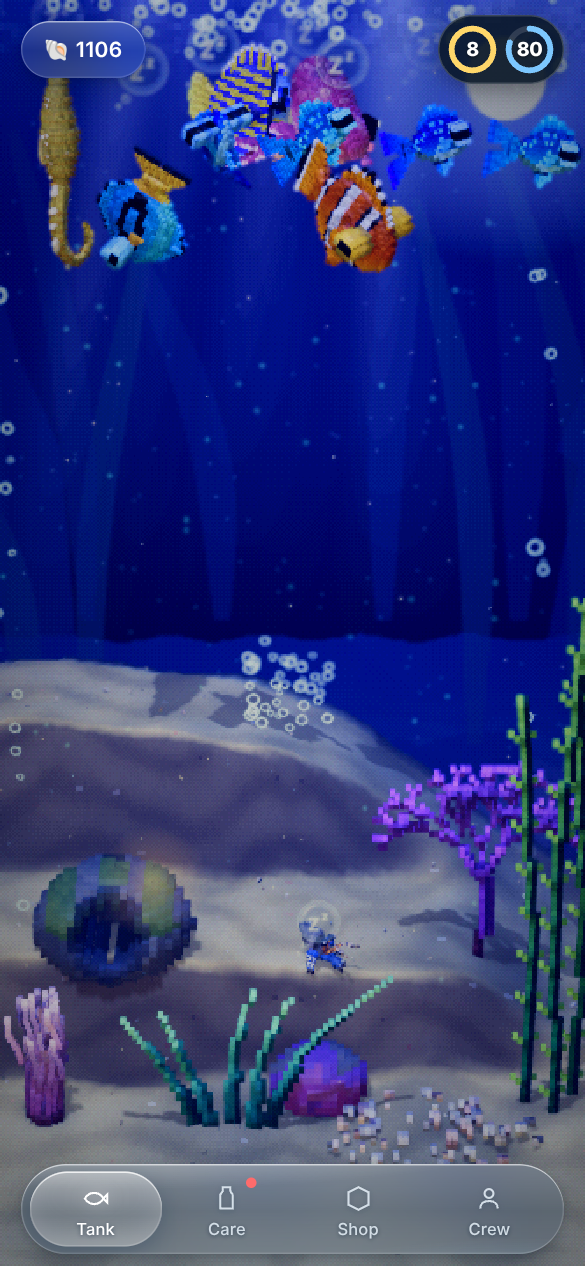
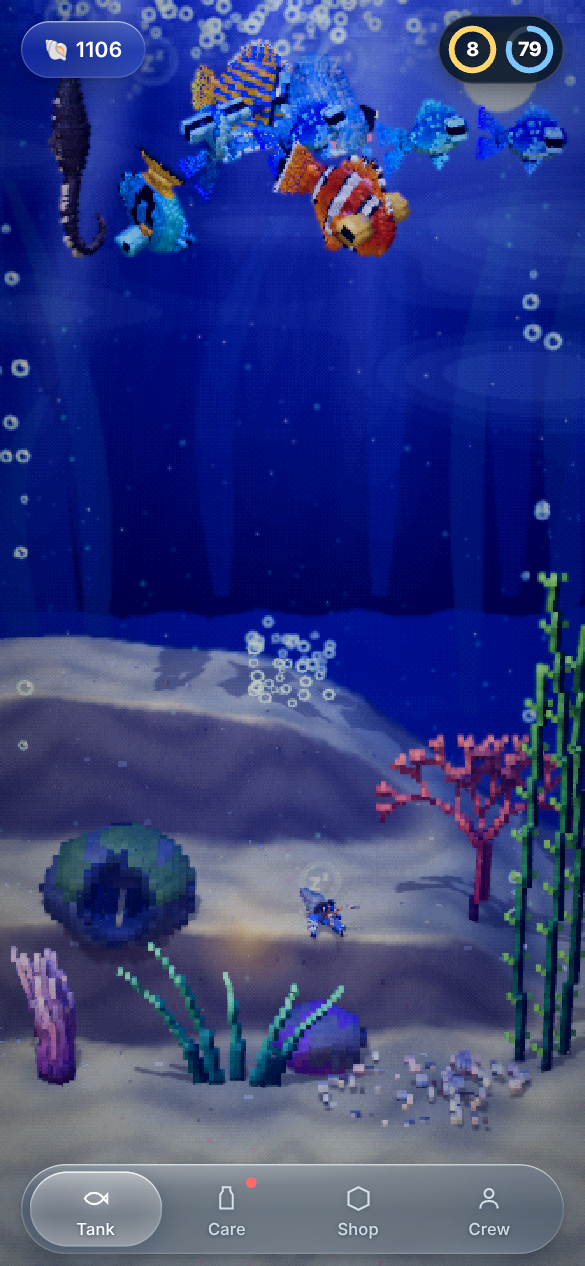
Visual pass: caustics on animals, translucent fins, haze, shadows, 3D thumbnails
- Caustic light now plays over every voxel animal and decoration, not only
  the sand: the shared voxel shader samples the same caustic texture in
  world space, strongest on upward faces and fading with depth, scaled by
  the time of day.
- Thin fins (dorsal, tail, pectoral) are translucent: an instanced per-voxel
  flag feeds an alpha-hashed 74% opacity, so fins read as membranes while
  the body stays solid. Eyes and glowing parts are never thinned.
- Soft shadow discs under swimming animals: a radial disc on the sand that
  grows and fades with the animal's height, hidden for seahorses, visitors,
  nursery fry, puppets and a hunting octopus; disposed with the animal.
- Two additive haze bands in the midwater, moving with the light.
- Bubbles carry a small glint highlight; shop and card thumbnails are
  rendered from every species' real 3D model (turtles keep their stroke
  pose); a faint glass streak in the grade pass.
- Service worker cache bumped to v321; after/before screenshots refreshed
  for all four times of day.

Claude-Session: https://claude.ai/code/session_01AcX8wdAS6t2Ysits5NhkSb

diff --git a/web/src/w3/fishmgr.js b/web/src/w3/fishmgr.js
@@ -117,10 +117,10 @@ export class Fishes {
       if (!f) { f = new Fish3D(SPECIES[x.species], x.seed, { look: x.pal != null ? { pal: x.pal } : null, name: x.name, speed: 0.5, scale: 1, band: BANDS.goldfish }); f.fid = x.id; f.setGrowth(STAGE_SCALE[x.stage] ?? 1); f.pos.set((this.rng() - 0.5) * 6, 12.7, 1.2); this.scene.add(f.group); this.list.push(f); this.byId.set(x.id, f); }
       if (!f.dead) { f.dead = true; f.floater = true; f.setPale(0.6); f.profile = { traits: [], mood: 'Passed away', needs: [0, 0, 0, 0] }; if (f.emote) { f.emote.visible = false; } this.burst(f.pos); }
     }
-    for (const id of [...(this.out?.keys() ?? [])]) if (!state.fish.some((x) => x.id === id)) { const f = this.out.get(id); this.out.delete(id); this.byId.delete(id); this.scene.remove(f.group); }      // gone for good while it was away (sold, moved on)
+    for (const id of [...(this.out?.keys() ?? [])]) if (!state.fish.some((x) => x.id === id)) { const f = this.out.get(id); this.out.delete(id); this.byId.delete(id); this.scene.remove(f.group); if (f.shade) { this.scene.remove(f.shade); f.shade.geometry.dispose(); f.shade.material.dispose(); f.shade = null; }; }      // gone for good while it was away (sold, moved on)
     this.ready = true;
     if (state.visitor) { seen.add(state.visitor.id); if (!this.byId.has(state.visitor.id)) this.addVisitor(state.visitor); }
-    for (const f of [...this.list]) if (!seen.has(f.fid)) { this.letGo(f); if (f.floater && !f.visitor) { (this.leaving ||= []).push({ f, age: 0, y: f.group.position.y, s: f.group.scale.x }); this.onGoodbye?.(f); } else if (TURTLE_SK.has(f.sk) && !f.dead) (this.rising ||= []).push({ f, age: 0, b: 0 }); else this.scene.remove(f.group);      /* (a sea turtle let go, or a visiting one going home, swims up and away on every phone) */ if (f.glow) { this.scene.remove(f.glow); this.onSpriteGone?.(f.glow); } if (f.hoardGroup) { this.scene.remove(f.hoardGroup); f.hoardGroup = null; } if (f.emote) { this.scene.remove(f.emote); this.onSpriteGone?.(f.emote); } this.list.splice(this.list.indexOf(f), 1); this.byId.delete(f.fid); }
+    for (const f of [...this.list]) if (!seen.has(f.fid)) { this.letGo(f); if (f.floater && !f.visitor) { (this.leaving ||= []).push({ f, age: 0, y: f.group.position.y, s: f.group.scale.x }); this.onGoodbye?.(f); } else if (TURTLE_SK.has(f.sk) && !f.dead) (this.rising ||= []).push({ f, age: 0, b: 0 }); else this.scene.remove(f.group); if (f.shade) { this.scene.remove(f.shade); f.shade.geometry.dispose(); f.shade.material.dispose(); f.shade = null; };      /* (a sea turtle let go, or a visiting one going home, swims up and away on every phone) */ if (f.glow) { this.scene.remove(f.glow); this.onSpriteGone?.(f.glow); } if (f.hoardGroup) { this.scene.remove(f.hoardGroup); f.hoardGroup = null; } if (f.emote) { this.scene.remove(f.emote); this.onSpriteGone?.(f.emote); } this.list.splice(this.list.indexOf(f), 1); this.byId.delete(f.fid); }
   }
   // Little Adventures: an octopus that has gone climbs out over the back rim if anyone is watching (otherwise it is simply not there), and
   // climbs back in the same way when it comes home. While it is away it is out of the list, so nothing in the tank looks for it.
@@ -130,7 +130,7 @@ export class Fishes {
     if (d.away) {
       if (!f || this.out.has(d.id)) return true;
       this.list.splice(this.list.indexOf(f), 1); this.out.set(d.id, f); this.letGo(f); if (f.emote) f.emote.visible = false;
-      if (watching && !d.away.inTank && this.ready) this.climb(f, -1); else this.scene.remove(f.group);
+      if (watching && !d.away.inTank && this.ready) this.climb(f, -1); else this.scene.remove(f.group); if (f.shade) { this.scene.remove(f.shade); f.shade.geometry.dispose(); f.shade.material.dispose(); f.shade = null; };
       return true;
     }
     if (f && this.out.has(d.id)) {
@@ -148,7 +148,7 @@ export class Fishes {
       age += dt; const q = Math.min(1, age / T), seg = Math.min(path.length - 2, Math.floor(q * (path.length - 1))), u = q * (path.length - 1) - seg, e = u * u * (3 - 2 * u);
       f.pos.lerpVectors(path[seg], path[seg + 1], e); f.group.position.copy(f.pos); f.group.rotation.x = seg === 1 ? -0.9 * Math.sin(e * Math.PI) : 0;      // flat against the back glass on the way up
       f.group.scale.setScalar(s0 * (dir < 0 ? (seg === path.length - 2 ? 1 - 0.6 * e : 1) : seg === 0 ? 0.4 + 0.6 * e : 1));
-      if (q >= 1) { f.puppet = null; f.group.rotation.x = 0; f.group.scale.setScalar(s0); if (dir < 0) this.scene.remove(f.group); else { f.target.copy(f.pos); this.drips(path[1]); } }
+      if (q >= 1) { f.puppet = null; f.group.rotation.x = 0; f.group.scale.setScalar(s0); if (dir < 0) { this.scene.remove(f.group); if (f.shade) { this.scene.remove(f.shade); f.shade.geometry.dispose(); f.shade.material.dispose(); f.shade = null; } } else { f.target.copy(f.pos); this.drips(path[1]); } }
     };
     if (dir < 0) this.drips(path[2]);
   }
@@ -1093,8 +1093,20 @@ export class Fishes {
           else if (T.cover >= 0.5 && Math.random() < 0.6) { const d = q.d, a = Math.atan2(f.pos.z - d.z, f.pos.x - d.x); f.target.set(d.x + Math.cos(a) * 2.3, Math.max(sandH(d.x, d.z) + 1.4, 1.6), d.z + Math.sin(a) * 2.3); f.retarget = 5; f.idle = 3; f.lookedNew = performance.now() + 20e3; f.thought = `Watching the new ${(DECOR_DEF[d.type]?.label ?? 'thing').toLowerCase()} from a distance`; } } }      // a shy one keeps its distance and watches      // a curious one comes to look; a shy one hangs back
     }
   }
+  // a soft dark disc on the sand under each animal, smaller and fainter the higher it swims: it grounds them in the tank (the real shadow
+  // pass only catches animals near the floor, and the sun is in front so most of it falls behind)
+  shadeTick() {
+    this.shadeTex ||= (() => { const c = document.createElement('canvas'); c.width = c.height = 64; const g = c.getContext('2d'), r = g.createRadialGradient(32, 32, 2, 32, 32, 30); r.addColorStop(0, 'rgba(0,0,0,.55)'); r.addColorStop(0.55, 'rgba(0,0,0,.25)'); r.addColorStop(1, 'rgba(0,0,0,0)'); g.fillStyle = r; g.fillRect(0, 0, 64, 64); const t = new THREE.CanvasTexture(c); return t; })();
+    for (const f of this.list) {
+      const hide = f.dead || f.visitor || f.away || f.group?.visible === false || f.nursery || f.puppet || (f.species?.move === 'jet' && f.hunt) || f.sk === 'seahorse';      /* (a seahorse hangs in the plants: a disc under it reads as a mistake) */
+      if (!f.shade) { if (hide) continue; const m = new THREE.Mesh(new THREE.PlaneGeometry(1, 1), new THREE.MeshBasicMaterial({ map: this.shadeTex, transparent: true, depthWrite: false, polygonOffset: true, polygonOffsetFactor: -2 })); m.rotation.x = -Math.PI / 2; m.renderOrder = 2; this.scene.add(m); f.shade = m; }
+      const m = f.shade; if (hide) { m.visible = false; continue; }
+      const gy = sandH(f.pos.x, f.pos.z), h = Math.max(0, f.pos.y - gy), r = (f.radius ?? 0.5) * (f.crab ? 0.5 : 1.15), k = Math.max(0, 1 - h / 7);
+      m.visible = k > 0.02; if (!m.visible) continue; m.position.set(f.pos.x, gy + 0.04, f.pos.z); const s = r * (1.1 + h * 0.12); m.scale.set(s * 1.3, s, 1); m.material.opacity = 0.55 * k * k;
+    }
+  }
   update(dt, t) {
-    this.senseTick(dt);
+    this.senseTick(dt); this.shadeTick();
     this.denRetry = (this.denRetry ?? 0) - dt; if (this.denRetry <= 0) { this.denRetry = 1.5; for (const f of this.list) if (!f.den && !f.dead && f.species.move === 'jet') { const d = this.recs?.get(f.fid); if (d && (this.spots?.() ?? []).length) this.syncDen(f, d); } }      // the decorations may not have been built when the fish were: an octopus with no den yet looks again
     if ((this.broodT = (this.broodT ?? 0) - dt) <= 0) { this.broodT = 2; const now = Date.now(); for (const f of this.list) if (f.sk === 'seahorse' && f.rec) f.brood = Math.max(broodOf(f.rec, now), f.greet && f.rec.sex === 'm' ? 0.3 : 0);      /* a male puffs his pouch a little as he greets */
       // an octopus nobody has fed for a long time goes listless: from about 60% hunger it lies about more, slower and a little paler, until a crab comes
@@ -1102,7 +1114,7 @@ export class Fishes {
     // laid to rest: the body sinks slowly and fades away, rather than vanishing
     if (this.rising?.length) this.rising = this.rising.filter((L) => { const f = L.f; L.age += dt; f.strokeK = 1; f.glideK = 0; f.restK = 0; f.headPitch = 0.4; f.neckK = 1; f.flipPh = (f.flipPh ?? 0) + dt * 3.2; f.pitch += (0.5 - f.pitch) * Math.min(1, dt * 2);
       f.group.position.y += dt * (1.2 + L.age * 0.8); f.group.position.z += (-2.5 - f.group.position.z) * Math.min(1, dt * 0.4); f.group.rotation.z = f.pitch; f.setPose(0, false); L.b -= dt; if (L.b <= 0) { L.b = 0.35; this.burst(f.group.position.clone()); }
-      if (L.age < 5 && f.group.position.y < Fish3D.topY + 4) return true; this.scene.remove(f.group); return false; });      // up through the surface on long strokes, trailing bubbles, and gone
+      if (L.age < 5 && f.group.position.y < Fish3D.topY + 4) return true; this.scene.remove(f.group); if (f.shade) { this.scene.remove(f.shade); f.shade.geometry.dispose(); f.shade.material.dispose(); f.shade = null; }; return false; });      // up through the surface on long strokes, trailing bubbles, and gone
     if (this.leaving?.length) this.leaving = this.leaving.filter((L) => { L.age += dt; const q = Math.min(1, L.age / 2.6), e = q * q * (3 - 2 * q); L.f.group.position.y = L.y - e * 2.2; L.f.group.scale.setScalar(L.s * (1 - 0.85 * e)); L.f.group.rotation.z += dt * 0.25; if (q < 1) return true; this.scene.remove(L.f.group); return false; });
     if (this.out) for (const f of this.out.values()) if (f.puppet) f.puppet(dt);      // an octopus on its way out over the rim
     if ((this.keepT = (this.keepT ?? 30) - dt) <= 0) { this.keepT = 70 + this.rng() * 90;      // now and then an octopus goes and looks over a keepsake it brought home (its favorite most often)

diff --git a/web/src/w3/stage.js b/web/src/w3/stage.js
@@ -1,6 +1,7 @@
 // The stage: renderer, camera, lights, fx, post-processing and time-of-day lighting. No game logic in here.
 import * as THREE from 'three';
 import { EffectComposer } from 'three/addons/postprocessing/EffectComposer.js';
+import { causTex, causT, causK } from './voxshade.js';
 import { RenderPass } from 'three/addons/postprocessing/RenderPass.js';
 import { UnrealBloomPass } from 'three/addons/postprocessing/UnrealBloomPass.js';
 import { OutputPass } from 'three/addons/postprocessing/OutputPass.js';
@@ -9,7 +10,7 @@ import { BokehPass } from 'three/addons/postprocessing/BokehPass.js';
 import { buildEnvironment } from './env.js';
 import { Fish3D } from './fish3d.js';
 import { lanternGlow } from './items.js';
-import { Shafts, Beams, waterSurface, Snow, Bubbles } from './fx.js';
+import { Shafts, Beams, Haze, waterSurface, Snow, Bubbles } from './fx.js';
 import { CausticMap } from './textures.js';
 
 export const stage = { murk: 0, quality: 2, lantern: 0, moonlit: 0, settle: 0, settleK: 0, dim: 0, dimK: 0 };      // dim: the tank's lights turned down (while the light spot toy is on)
@@ -41,6 +42,7 @@ Fish3D.world = env.colliders;                 // decorations are solid for the f
 export const hemi = new THREE.HemisphereLight(0x6fb4e8, 0x1c4a52, 0.9); scene.add(hemi);
 export const amb = new THREE.AmbientLight(0x4a7090, 0.3); scene.add(amb);
 export const caustic = new CausticMap(96);
+export const causOn = (t) => { causTex.value = caustic.tex; causT.value = t; causK.value = 0.32 * Math.min(1, (cur.sunI ?? 10) / 10) * (cur.shaft > 0.18 ? 1 : 0.5) * (1 - 0.7 * stage.dimK); };      // the light on the animals and decorations: as much as the sand gets, less when the day is dim
 export const sun = new THREE.SpotLight(0xffe0a6, 6, 0, 0.62, 0.7, 0);
 sun.position.set(-6, 24, 12); sun.target.position.set(0.2, 2, -1.2); scene.add(sun, sun.target);
 sun.castShadow = true; sun.shadow.mapSize.set(2048, 2048); sun.shadow.bias = -0.0004; sun.shadow.normalBias = 0.03; sun.shadow.camera.near = 8; sun.shadow.camera.far = 50;
@@ -55,7 +57,8 @@ const glowMat = () => new THREE.MeshBasicMaterial({ map: glowTex, transparent: t
 export const halo = new THREE.Mesh(new THREE.PlaneGeometry(4.2, 4.2), glowMat()); halo.position.set(0, -20, 0); halo.renderOrder = 6; scene.add(halo);
 export const pool = new THREE.Mesh(new THREE.PlaneGeometry(9, 5), glowMat()); pool.rotation.x = -Math.PI / 2; pool.position.set(0, -20, 0); pool.renderOrder = 3; scene.add(pool);
 export const shafts = new Shafts(); shafts.rebuild();   // god-ray streaks removed from the scene (too much); class kept for later
-export const beams = new Beams(6); scene.add(beams.group);      // broad, slow sunbeams from the surface
+export const beams = new Beams(6); scene.add(beams.group);
+export const haze = new Haze(); scene.add(haze.group);      // soft bands of lighter water in the middle distance      // broad, slow sunbeams from the surface
 export const surf = waterSurface(); scene.add(surf.mesh);
 export const snow = new Snow(); scene.add(snow.pts); { const m = snow.pts.material; if (m) { if (m.size) m.size *= 0.7; if (m.opacity != null) m.opacity *= 0.75; } }      // marine snow: small and soft, never a sparkle
 export const motes = new Snow(110); scene.add(motes.pts); { const m = motes.pts.material; m.size = 0.085; m.color.set(0xfff0c8); m.opacity = 0.3; m.blending = THREE.AdditiveBlending; for (let i = 0; i < motes.n; i++) motes.s[i] *= 0.25; }      // light motes: warm specks that catch the light, drifting slowly
@@ -75,7 +78,7 @@ const scrub = () => new ShaderPass({ uniforms: { tDiffuse: { value: null } },
 composer.addPass(scrub());
 // depth of field: sharp fish, soft painterly background (and a strong portrait blur when zoomed on a fish)
 export const bokeh = new BokehPass(scene, camera, { focus: 30, aperture: 0.00016, maxblur: 0.0032 })      // (a touch of depth, never mush: the far ruins and plants stay readable);
-export const hideForDepth = [halo, pool, shafts.group, beams.group, surf.mesh, snow.pts, bubbles.mesh, bubbles2.mesh, bg];
+export const hideForDepth = [halo, pool, shafts.group, beams.group, haze.group, surf.mesh, snow.pts, bubbles.mesh, bubbles2.mesh, bg];
 const bokehRender = bokeh.render.bind(bokeh);
 bokeh.render = (...a) => { const was = hideForDepth.map((o) => o.visible); hideForDepth.forEach((o) => (o.visible = false)); bokehRender(...a); hideForDepth.forEach((o, i) => (o.visible = was[i])); };   // put back what was visible, never force things on
 composer.addPass(bokeh); composer.addPass(scrub());
@@ -109,6 +112,7 @@ export const grade = new ShaderPass({
       float pool = smoothstep(.85,.05, length(d*vec2(1.25,.8)));                      // soft pool of light around the action
       c *= mix(1. - uPool*.5, 1.03, pool);
       c *= mix(.74, 1., smoothstep(1.1,.3, length((vUv-.5)*vec2(1.0,.9))));          // vignette
+      { float st = smoothstep(0.08, 0.0, abs((vUv.x * 0.6 + vUv.y * 0.8) - 1.08)) * smoothstep(0.55, 1.0, vUv.y); c += vec3(.9, .97, 1.) * st * 0.045; }      // the glass: one faint pale streak in the top corner, the room's light on the pane
       c = (c - .5) * 1.07 + .5;                                                         // a little more contrast: the voxels read as solid things, not pastel
       // PS1-style 15-bit color with ordered dither
       float levels = 31.;

diff --git a/web/src/w3/voxshade.js b/web/src/w3/voxshade.js
@@ -3,6 +3,8 @@
 import * as THREE from 'three';
 export const fishBoost = { value: new THREE.Vector3(0.2, 0.17, 0.12) };
 export const swayTime = { value: 0 };
+// the sun through the moving surface, on everything: the caustic map and its clock (stage sets them each frame), strength 0..1
+export const causTex = { value: null }, causT = { value: 0 }, causK = { value: 0.5 };
 // animals near the plants (x, y, z, reach): leaves bend away from them, so an octopus crawling through sea grass or a fish nosing a fan parts the leaves instead of passing through them
 export const PUSH_N = 16;
 export const plantPush = { value: Array.from({ length: PUSH_N }, () => new THREE.Vector4(0, -99, 0, 0)) };
@@ -12,9 +14,24 @@ export const plantHold = { value: Array.from({ length: HOLD_N }, () => new THREE
 
 export function voxShading(mat, { sway = false, boost = 1 } = {}) {
   mat.onBeforeCompile = (sh) => {
-    sh.uniforms.uBoost = fishBoost; sh.uniforms.uTime = swayTime; sh.uniforms.uBoostK = { value: boost }; if (sway) { sh.uniforms.uPush = plantPush; sh.uniforms.uHold = plantHold; }
+    sh.uniforms.uBoost = fishBoost; sh.uniforms.uTime = swayTime; sh.uniforms.uBoostK = { value: boost }; sh.uniforms.uCaus = causTex; sh.uniforms.uCausT = causT; sh.uniforms.uCausK = causK; if (sway) { sh.uniforms.uPush = plantPush; sh.uniforms.uHold = plantHold; }
     sh.vertexShader = sh.vertexShader.replace('#include <common>', `#include <common>
-      attribute vec3 aN; ${sway ? `attribute vec2 aSw; uniform float uTime; uniform vec4 uPush[${PUSH_N}]; uniform vec4 uHold[${HOLD_N}];` : ''}`)
+      attribute vec3 aN; varying vec3 vWp; varying float vThin;
+      #ifdef USE_INSTANCING
+        attribute float aThin;
+      #endif
+      ${sway ? `attribute vec2 aSw; uniform float uTime; uniform vec4 uPush[${PUSH_N}]; uniform vec4 uHold[${HOLD_N}];` : ''}`)
+      .replace('#include <worldpos_vertex>', `#include <worldpos_vertex>
+        { vec4 wq = vec4(transformed, 1.0);
+          #ifdef USE_INSTANCING
+            wq = instanceMatrix * wq;
+          #endif
+          vWp = (modelMatrix * wq).xyz; }
+        #ifdef USE_INSTANCING
+          vThin = aThin;
+        #else
+          vThin = 0.0;
+        #endif`)
       .replace('#include <beginnormal_vertex>', `#include <beginnormal_vertex>
         if (dot(aN, aN) > 0.01) objectNormal = normalize(mix(objectNormal, aN, 0.72));      // (a little more of the cube in each face: the voxels read)`);
     if (sway) sh.vertexShader = sh.vertexShader.replace('#include <project_vertex>', `
@@ -37,10 +54,15 @@ export function voxShading(mat, { sway = false, boost = 1 } = {}) {
           if (hd < rr) bend += (hd > 0.001 ? d.xz / hd : vec2(1.0, 0.0)) * q.w * 0.45 * (1.0 - smoothstep(0.0, rr, hd)) * bendK; }      // a gentle lean that fades smoothly with distance, so neighbouring voxels move almost together and a blade stays in one piece
         wp.xz += bend;
         vec4 mvPosition = viewMatrix * wp;
-        gl_Position = projectionMatrix * mvPosition;`);
-    sh.fragmentShader = sh.fragmentShader.replace('#include <common>', '#include <common>\nuniform vec3 uBoost; uniform float uBoostK;')
+        gl_Position = projectionMatrix * mvPosition;`);      // (vWp for a swaying plant is set by worldpos_vertex above, from the unswayed voxel: near enough for light that drifts anyway)
+    sh.fragmentShader = sh.fragmentShader.replace('#include <common>', '#include <common>\nuniform vec3 uBoost; uniform float uBoostK; uniform sampler2D uCaus; uniform float uCausT, uCausK; varying vec3 vWp; varying float vThin;')
+      .replace('#include <alphahash_fragment>', `if (vThin > 0.5) diffuseColor.a *= 0.74;      // fins and tails: a little see-through (the dithered kind: no sorting, fits the pixel look)
+        #include <alphahash_fragment>`)
       .replace('#include <opaque_fragment>', `outgoingLight += diffuseColor.rgb * uBoost * uBoostK;
         { float fres = pow(1.0 - clamp(dot(normalize(vViewPosition), normal), 0.0, 1.0), 3.0); outgoingLight *= 1.0 - 0.2 * fres; }      // the edges of each thing fall off into shade: round, solid, not a flat cut-out
+        { vec2 cw = vWp.xz; float c1 = texture2D(uCaus, cw * 0.27 + vec2(uCausT * 0.012, uCausT * 0.006)).r, c2 = texture2D(uCaus, cw * 0.39 + vec2(-uCausT * 0.008, uCausT * 0.01) + 0.41).r;
+          float cl = smoothstep(0.6, 0.95, c1) + 0.5 * smoothstep(0.64, 0.98, c2), up = clamp(normal.y * 0.7 + 0.3, 0.0, 1.0), depthK = clamp(vWp.y / 14.0, 0.25, 1.0);      // light from the surface plays over backs and tops, less so deep down
+          outgoingLight += diffuseColor.rgb * vec3(1.0, 0.95, 0.8) * cl * uCausK * up * depthK; }
         #include <opaque_fragment>`);
   };
   return mat;

diff --git a/web/src/w3/fx.js b/web/src/w3/fx.js
@@ -77,18 +77,20 @@ export class Snow {
 export class Bubbles {
   constructor(x, z, n = 26) {
     this.x = x; this.z = z; this.n = n;
-    this.mesh = new THREE.InstancedMesh(new THREE.TorusGeometry(1, 0.22, 4, 8), new THREE.MeshBasicMaterial({ color: 0xcfeeff, transparent: true, opacity: 0.75, depthWrite: false }), n);
-    this.mesh.frustumCulled = false;
+    // each bubble a thin ring, with one bright square at its upper right: the window of light every real bubble carries
+    this.ring = new THREE.InstancedMesh(new THREE.TorusGeometry(1, 0.22, 4, 8), new THREE.MeshBasicMaterial({ color: 0xcfeeff, transparent: true, opacity: 0.75, depthWrite: false }), n);
+    this.glint = new THREE.InstancedMesh(new THREE.BoxGeometry(0.5, 0.5, 0.5), new THREE.MeshBasicMaterial({ color: 0xffffff, transparent: true, opacity: 0.9, depthWrite: false }), n);
+    this.ring.frustumCulled = this.glint.frustumCulled = false; this.mesh = new THREE.Group(); this.mesh.add(this.ring, this.glint); this.gm = new THREE.Matrix4();
     this.b = Array.from({ length: n }, () => ({ y: Math.random() * 15, s: 0.8 + Math.random() * 1.1, r: 0.03 + Math.random() * 0.07, ph: Math.random() * 6 }));
     this.m = new THREE.Matrix4();
   }
   update(dt, t) {
     this.b.forEach((b, i) => {
       b.y += b.s * dt; if (b.y > 15.8) { b.y = 0.2; b.s = 0.8 + Math.random() * 1.1; }
-      this.m.makeScale(b.r, b.r, b.r); this.m.setPosition(this.x + Math.sin(t * 2 + b.ph) * 0.12 * (b.y * 0.15), b.y, this.z + Math.cos(t * 1.7 + b.ph) * 0.06);
-      this.mesh.setMatrixAt(i, this.m);
+      const bx = this.x + Math.sin(t * 2 + b.ph) * 0.12 * (b.y * 0.15), bz = this.z + Math.cos(t * 1.7 + b.ph) * 0.06; this.m.makeScale(b.r, b.r, b.r); this.m.setPosition(bx, b.y, bz);
+      this.ring.setMatrixAt(i, this.m); this.gm.makeScale(b.r, b.r, b.r); this.gm.setPosition(bx + b.r * 0.55, b.y + b.r * 0.6, bz + b.r * 0.2); this.glint.setMatrixAt(i, this.gm);
     });
-    this.mesh.instanceMatrix.needsUpdate = true;
+    this.ring.instanceMatrix.needsUpdate = true; this.glint.instanceMatrix.needsUpdate = true;
   }
 }
 
@@ -219,4 +221,25 @@ export class Beams {
   }
   // t in seconds: each beam breathes and drifts very slowly (dim: less light coming through the surface, as on a rainy day)
   update(t, dim = 1) { for (const b of this.items) { const k = b.base * (0.65 + 0.35 * Math.sin(t * b.sp * 6.28 + b.ph)) * dim; b.k.array.fill(k); b.k.needsUpdate = true; b.m.position.x = Math.sin(t * b.sp + b.ph) * 0.25; } }
+}
+
+// Haze: two wide, soft bands of lighter water in the middle distance, drifting very slowly. They sit between the far kelp and the animals and
+// give the water a body (light is scattered in it) without a particle in sight. Additive, so they only ever brighten.
+export class Haze {
+  constructor() {
+    this.group = new THREE.Group(); this.items = [];
+    this.mat = new THREE.ShaderMaterial({ transparent: true, depthWrite: false, blending: THREE.AdditiveBlending, fog: false,
+      uniforms: { uI: { value: 0.4 }, uT: { value: 0 }, uCol: { value: new THREE.Color(0.75, 0.92, 1.0) } },
+      vertexShader: 'varying vec2 vUv; void main(){ vUv = uv; gl_Position = projectionMatrix * modelViewMatrix * vec4(position, 1.); }',
+      fragmentShader: `varying vec2 vUv; uniform float uI, uT; uniform vec3 uCol;
+        float h(vec2 p){ return fract(sin(dot(p, vec2(12.9898, 78.233))) * 43758.5453); }
+        float n(vec2 p){ vec2 i = floor(p), f = fract(p); f = f * f * (3. - 2. * f); return mix(mix(h(i), h(i + vec2(1, 0)), f.x), mix(h(i + vec2(0, 1)), h(i + vec2(1, 1)), f.x), f.y); }
+        void main(){
+          float band = n(vec2(vUv.x * 3.0 + uT * 0.02, vUv.y * 6.0 - uT * 0.008)) * 0.6 + n(vec2(vUv.x * 7.0 - uT * 0.015, vUv.y * 11.0)) * 0.4;
+          float edge = smoothstep(0.0, 0.25, vUv.x) * smoothstep(1.0, 0.75, vUv.x) * smoothstep(0.0, 0.3, vUv.y) * smoothstep(1.0, 0.6, vUv.y);
+          float a = smoothstep(0.45, 0.8, band) * edge * uI; a = floor(a * 24.0 + 0.5) / 24.0;      // (a few steps, as the pixel look wants)
+          gl_FragColor = vec4(uCol * a, a); }` });
+    for (const [z, w, hgt, y] of [[-7, 26, 9, 7.5], [-11, 34, 11, 9]]) { const m = new THREE.Mesh(new THREE.PlaneGeometry(w, hgt), this.mat); m.position.set(0, y, z); m.frustumCulled = false; m.renderOrder = 3; this.group.add(m); this.items.push(m); }
+  }
+  update(t, k = 1) { this.mat.uniforms.uT.value = t; this.mat.uniforms.uI.value = 0.42 * k; }
 }

diff --git a/web/src/w3/fish3d.js b/web/src/w3/fish3d.js
@@ -42,7 +42,7 @@ const COSTUME_BUMP = { sole: 0.35, lion: 0.95, snake: 0, jelly: 0, kelp: 1, fish
 const mixc = (a, b, t) => [a[0] + (b[0] - a[0]) * t, a[1] + (b[1] - a[1]) * t, a[2] + (b[2] - a[2]) * t];
 const ACT_TEXT = { flat: 'Flat as a sole, sliding over the sand.', bury: 'Dug into the sand, just its eyes showing.', lion: 'Spines out: pretending to be a lionfish.', snake: 'Two arms out, rippling like a sea snake.', jelly: 'Puffed up and drifting like a jellyfish.', kelp: 'Arms up, swaying like the plant beside it.', tour: 'Out for a swim round the tank.' };
 const GAITS = { stroll: { stride: 1, lift: 0, sp: 1, bob: 1 }, creep: { stride: 0.6, lift: 0, sp: 0.7, bob: 0.5 }, stilt: { stride: 1.35, lift: 0.22, sp: 1.15, bob: 1.6 }, bounce: { stride: 1.1, lift: 0.08, sp: 0.95, bob: 2.2 } };
-const mat = new THREE.MeshStandardMaterial({ roughness: 0.42, metalness: 0.04 });      // a wet sheen: the light rolls off a fish's side in one bright line
+const mat = new THREE.MeshStandardMaterial({ roughness: 0.42, metalness: 0.04, alphaHash: true });      // a wet sheen: the light rolls off a fish's side in one bright line
 // Soft lighting on hard voxels: blend each cube's face normal with the smoothed body normal,
 // so light rolls across the form like a rounded 3D shape while the silhouette stays blocky.
 import { fishBoost, voxShading, swayTime } from './voxshade.js';
@@ -100,17 +100,17 @@ export class Fish3D {
       this.size = gn.size;
       this.vox.forEach((v, i) => { this.mesh.getColorAt(i, col); col.getHSL(hsl); if (hsl.s > 0.2) { if (M) col.setHSL(M.h ?? hsl.h, M.s, Math.min(0.95, hsl.l * 0.4 + M.l * 0.6)); else col.setHSL((hsl.h + dh + 1) % 1, Math.min(1, hsl.s * ds), Math.min(0.95, hsl.l * dl)); this.mesh.setColorAt(i, col); } }); }
     // baked ambient occlusion from neighbour density + smooth normals for the shader
-    const nrm = new Float32Array(n * 3);
+    const nrm = new Float32Array(n * 3), thin = new Float32Array(n);
     this.vox.forEach((v, i) => {
       let c = 0;
       for (let dz = -1; dz <= 1; dz++) for (let dy = -1; dy <= 1; dy++) for (let dx = -1; dx <= 1; dx++) if ((dx || dy || dz) && occ.has(key(v.x + dx, v.y + dy, v.z + dz))) c++;
       const ao = Math.max(0, Math.min(0.33, (c / 26 - 0.42) * 1.55));      // (a little deeper in the creases: between fins and body, under the arms)
       this.mesh.getColorAt(i, col); col.multiplyScalar(1 - ao); this.mesh.setColorAt(i, col);
-      if (!v.thin) { nrm[i * 3] = v.nx; nrm[i * 3 + 1] = v.ny; nrm[i * 3 + 2] = v.nz; if (v.tag === 'web' || v.tag === 'beak') { nrm[i * 3] = 0; nrm[i * 3 + 1] = 0.45; nrm[i * 3 + 2] = 0.89; }          // the underside of the face is lit from the front, never left in the dark
+      thin[i] = v.thin && v.tag !== 'eye' && (v.flap || v.wave) ? 1 : 0;      /* (the fins and tail that flap or wave: see-through; thin parts of a body that do not move stay solid) */ if (!v.thin) { nrm[i * 3] = v.nx; nrm[i * 3 + 1] = v.ny; nrm[i * 3 + 2] = v.nz; if (v.tag === 'web' || v.tag === 'beak') { nrm[i * 3] = 0; nrm[i * 3 + 1] = 0.45; nrm[i * 3 + 2] = 0.89; }          // the underside of the face is lit from the front, never left in the dark
       else if (species.move === 'jet' && v.arm < 0 && v.ny < 0) { const ny = v.ny * 0.3, m = Math.hypot(v.nx, ny, v.nz) || 1; nrm[i * 3] = v.nx / m; nrm[i * 3 + 1] = ny / m; nrm[i * 3 + 2] = v.nz / m; }   // the underside is not left in the dark when the arms are away
       if (v.arm >= 0) { const a = 0.5, nx = v.nx * a, ny = v.ny * a + 0.5, nz = v.nz * a, m = Math.hypot(nx, ny, nz) || 1; nrm[i * 3] = nx / m; nrm[i * 3 + 1] = ny / m; nrm[i * 3 + 2] = nz / m; } }   // arms move, so light them from above in every pose
     });
-    this.mesh.geometry.setAttribute('aN', new THREE.InstancedBufferAttribute(nrm, 3));
+    this.mesh.geometry.setAttribute('aN', new THREE.InstancedBufferAttribute(nrm, 3)); this.mesh.geometry.setAttribute('aThin', new THREE.InstancedBufferAttribute(thin, 1));
     this.baseCol = Float32Array.from(this.mesh.instanceColor.array);
     this.mobile = [];
     this.vox.forEach((v, i) => { if (species.move === 'jet' || (this.sp.bend && v.x + this.cx < this.sp.bend.pivot) || v.flap || v.wave || v.flip || (v.tag === 'head' && TURTLE_IDS.has(species.id)) || v.tag === 'tail' || v.tag === 'glint' || v.tag === 'pouch') this.mobile.push(i); });

diff --git a/web/src/w3/thumbs.js b/web/src/w3/thumbs.js
@@ -49,8 +49,8 @@ export function fishThumb(id, pal = null, morph = null) {
       const f = new Crab3D(id, 3, { scale: 1 }), n = CRAB_SIZE[id][1]; f.rec = { species: id, born: Date.now() - 20 * 864e5, seed: 3, crab: { type: 'bold' } }; f.wear('cshell_ivory', n * 1.02); f.setGrowth(1); f.heading = -0.9; f.pos.set(0, 0, 0); f.clawUp = 0; f.pose(0); f.group.position.set(0, 0, 0); f.group.rotation.set(0.35, -0.9, 0); f.group.updateMatrixWorld(true); sc.add(f.group);
       const box = new THREE.Box3().setFromObject(f.group), c = box.getCenter(new THREE.Vector3()), r = Math.max(box.max.x - box.min.x, box.max.y - box.min.y) * 0.6; cam.left = -r; cam.right = r; cam.top = r; cam.bottom = -r; cam.updateProjectionMatrix(); cam.position.set(c.x, c.y, c.z + 10); cam.lookAt(c);
       rr.render(sc, cam); const url = fitThumb(rr.domElement); sc.remove(f.group); cache.set(key, url); return url; } catch (e) { console.warn('crab thumbnail failed', e); cache.set(key, ''); return ''; } }
-  if (['turtle', 'hawksbill', 'loggerhead', 'kemps', 'leatherback'].includes(id) && !morph) { const key = 't:' + id + (pal ?? ''); if (cache.has(key)) return cache.get(key); try { if (!rr) setup();      // a sea turtle is drawn from its real 3D model, seen from a little above, mid-stroke, so its shell and flippers both show
-      const f = new Fish3D(SPECIES[id], 3, { scale: 1 }); Object.assign(f, { strokeK: 0.6, flipPh: 1.3, glideK: 0, restK: 0, headYaw: 0.15, headPitch: 0.12, neckK: 0.75 }); f.setPose(0, true); f.group.position.set(0, 0, 0); f.group.rotation.set(0, 0, 0); f.group.rotateY(0.55); f.group.rotateX(0.62); sc.add(f.group);
+  if (SPECIES[id] && !morph && pal == null) { const key = 't:' + id; if (cache.has(key)) return cache.get(key); try { if (!rr) setup();      // every animal from its real 3D model (the finish the tank has), seen from the front and a little above; a turtle mid-stroke so its shell and flippers both show
+      const turtle = ['turtle', 'hawksbill', 'loggerhead', 'kemps', 'leatherback'].includes(id), f = new Fish3D(SPECIES[id], 3, { scale: 1 }); if (turtle) Object.assign(f, { strokeK: 0.6, flipPh: 1.3, glideK: 0, restK: 0, headYaw: 0.15, headPitch: 0.12, neckK: 0.75 }); f.setPose(0, true); f.group.position.set(0, 0, 0); f.group.rotation.set(0, 0, 0); if (turtle) { f.group.rotateY(0.55); f.group.rotateX(0.62); } else { f.group.rotateY(-0.75); f.group.rotateX(0.18); } sc.add(f.group);
       const box = new THREE.Box3().setFromObject(f.group), c = box.getCenter(new THREE.Vector3()), r = Math.max(box.max.x - box.min.x, box.max.y - box.min.y) * 0.56; cam.left = -r; cam.right = r; cam.top = r; cam.bottom = -r; cam.updateProjectionMatrix(); cam.position.set(c.x, c.y, 10); cam.lookAt(c.x, c.y, 0);
       rr.render(sc, cam); const url = fitThumb(rr.domElement); sc.remove(f.group); cache.set(key, url); return url; } catch (e) { console.warn('turtle thumbnail failed', e); } }
   const M = morph && MORPHS[morph], key = 'f:' + id + (pal != null ? ':' + pal : '') + (M ? ':' + morph : ''); if (cache.has(key)) return cache.get(key);

diff --git a/web/src/main.js b/web/src/main.js
@@ -1665,7 +1665,7 @@ function frame(now) {
 function frameBody(now) {
   const dt = Math.min(0.05, (now - last) / 1000); last = now; const t = now / 1000;
   swayTime.value = t; cTick += dt; if (cTick > 0.05) { cTick = 0; stg.caustic.update(t * 0.7); }
-  const lit = rain.light(t); stg.beams.update(t, lit); stg.env.setCaustic(stg.caustic.tex, t, safeNoCaustic ? 0 : (0.08 + 0.26 * Math.min(1, cur.sunI / 10)) * (stg.cur.shaft > 0.18 ? 1 : 0.5) * lit);      // light on the sand follows the sun
+  const lit = rain.light(t); stg.beams.update(t, lit); stg.haze.update(t, lit * (stg.cur.shaft > 0.18 ? 1 : 0.5)); stg.causOn?.(t); stg.env.setCaustic(stg.caustic.tex, t, safeNoCaustic ? 0 : (0.08 + 0.26 * Math.min(1, cur.sunI / 10)) * (stg.cur.shaft > 0.18 ? 1 : 0.5) * lit);      // light on the sand follows the sun
   if (game.state) stage.murk += (Math.max(0, (0.8 - game.state.water) / 0.8) - stage.murk) * Math.min(1, dt * 1.5);      // (fresh-ish water stays clear: the murk comes in only once the water is really due)
   stg.applyTod(dt);
   if (focus) {

diff --git a/web/sw.js b/web/sw.js
@@ -1,5 +1,5 @@
 // Caches the app shell so the game opens instantly and keeps working without a connection (solo play).
-const V = 'ourtank-v320', SHELL = ['/', '/index.html', '/manifest.webmanifest', '/icon-192.png'];
+const V = 'ourtank-v321', SHELL = ['/', '/index.html', '/manifest.webmanifest', '/icon-192.png'];
 self.addEventListener('install', (e) => { e.waitUntil(caches.open(V).then((c) => c.addAll(SHELL)).then(() => self.skipWaiting())); });
 self.addEventListener('activate', (e) => { e.waitUntil(caches.keys().then((ks) => Promise.all(ks.filter((k) => k !== V).map((k) => caches.delete(k)))).then(() => self.clients.claim())); });
 self.addEventListener('fetch', (e) => {
